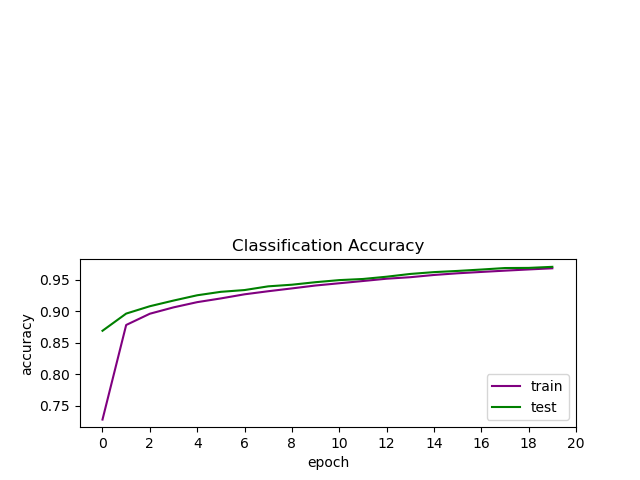
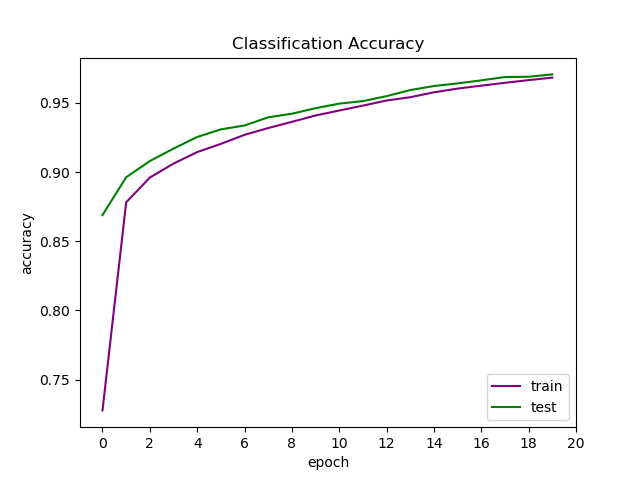
fixed graphs

diff --git a/training.py b/training.py
@@ -53,7 +53,6 @@ hist = model.fit(x=x_train, y=y_train, validation_data=(x_test, y_test), epochs=
 def save_plot(training_history):
     # saves training progress logs in plots
     # summarize and save loss plot
-    plt.subplot(211)
     plt.title('Cross Entropy Loss')
     plt.plot(training_history.history['loss'], color='purple', label='train')
     plt.plot(training_history.history['val_loss'], color='green', label='test')
@@ -64,7 +63,6 @@ def save_plot(training_history):
     plt.savefig('loss_plot.png')
     plt.close()
     # summarize and save accuracy plot
-    plt.subplot(212)
     plt.title('Classification Accuracy')
     plt.plot(training_history.history['accuracy'], color='purple', label='train')
     plt.plot(training_history.history['val_accuracy'], color='green', label='test')
